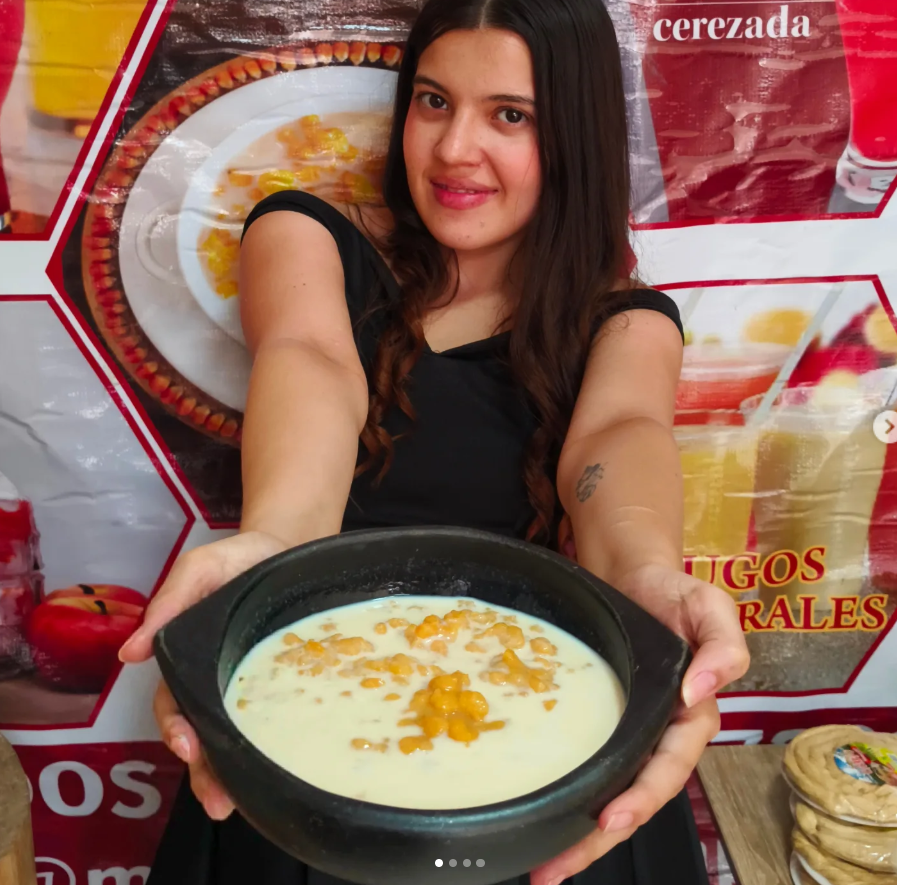
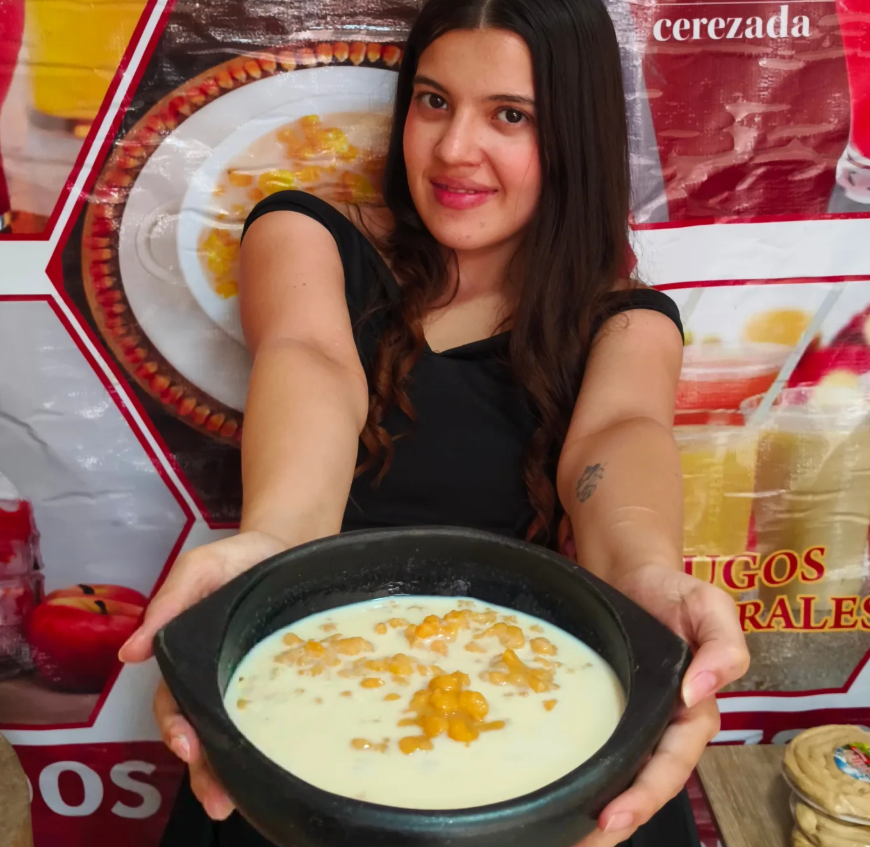
Add files via upload

diff --git a/index.html b/index.html
@@ -29,7 +29,7 @@
       "addressRegion": "Antioquia",
       "addressCountry": "CO"
     },
-    "telephone": "+57 314 607 7201",
+    "telephone": "+57 320 454 6172",
     "sameAs": ["https://www.instagram.com/mazmasculturapaisa/"]
   }
   </script>
@@ -55,7 +55,7 @@
           <li class="nav-item"><a class="nav-link" href="pages/blog.html">Blog paisa</a></li>
           <li class="nav-item"><a class="nav-link" href="pages/contacto.html">Contacto</a></li>
           <li class="nav-item ms-lg-3 mt-2 mt-lg-0">
-            <a class="btn btn-gold btn-sm rounded-pill px-3" href="https://wa.me/573146077201?text=Hola%20MazMas%2C%20quiero%20hacer%20un%20pedido." target="_blank" rel="noopener">
+            <a class="btn btn-gold btn-sm rounded-pill px-3" href="https://wa.me/573205466172?text=Hola%20MazMas%2C%20quiero%20hacer%20un%20pedido." target="_blank" rel="noopener">
               <i class="bi bi-whatsapp me-1" aria-hidden="true"></i> Pedir
             </a>
           </li>
@@ -76,7 +76,7 @@
             En MazMas conservamos el sabor de casa: mazamorra, claro, arroz con leche, salpicón, obleas, solteritas y dulces típicos que nos conectan con nuestras raíces antioqueñas.
           </p>
           <div class="d-flex flex-wrap gap-2 mb-4">
-            <a class="btn btn-mazmas btn-lg rounded-pill px-4" href="https://wa.me/573146077201?text=Hola%20MazMas%2C%20quiero%20hacer%20un%20pedido." target="_blank" rel="noopener">
+            <a class="btn btn-mazmas btn-lg rounded-pill px-4" href="https://wa.me/573205466172?text=Hola%20MazMas%2C%20quiero%20hacer%20un%20pedido." target="_blank" rel="noopener">
               <i class="bi bi-whatsapp me-2" aria-hidden="true"></i>Pedir por WhatsApp
             </a>
             <a class="btn btn-outline-mazmas btn-lg rounded-pill px-4" href="pages/servicios.html">Ver productos</a>
@@ -96,7 +96,7 @@
             </div>
             <div class="carousel-inner">
               <div class="carousel-item active" data-bs-interval="5200">
-                <img src="assets/img/Mazamorra 1.png" class="d-block w-100" alt="Mazamorra pilada MazMas servida con maíz y leche" loading="eager">
+                <img src="assets/img/Plato mazamorra.jpg" class="d-block w-100" alt="Mazamorra pilada MazMas servida con maíz y leche" loading="eager">
                 <div class="carousel-caption">
                   <h2 class="h5 fw-bold mb-1">La mazamorra de la abuela, cerquita de ti</h2>
                   <p class="mb-0 small">Una receta tradicional que sabe a familia.</p>
@@ -110,7 +110,7 @@
                 </div>
               </div>
               <div class="carousel-item" data-bs-interval="5200">
-                <img src="assets/img/Mazamorra 3.png" class="d-block w-100" alt="Refrigerios empresariales con productos tradicionales paisas" loading="lazy">
+                <img src="assets/img/Bandeja Salpicón.jpg" class="d-block w-100" alt="Refrigerios empresariales con productos tradicionales paisas" loading="lazy">
                 <div class="carousel-caption">
                   <h2 class="h5 fw-bold mb-1">Refrigerios con identidad paisa</h2>
                   <p class="mb-0 small">Para oficinas, colegios, eventos y reuniones.</p>
@@ -235,7 +235,7 @@
           <a class="btn btn-gold btn-lg rounded-pill" href="pages/contacto.html#form-contacto">Cotizar refrigerio</a>
         </div>
         <div class="col-lg-6">
-          <img src="assets/img/Oblea.png" alt="Refrigerios empresariales MazMas con mazamorra y dulces típicos" class="img-fluid rounded-5 shadow" loading="lazy">
+          <img src="assets/img/Refrigerio.jpg" alt="Refrigerios empresariales MazMas con mazamorra y dulces típicos" class="img-fluid rounded-5 shadow" loading="lazy">
         </div>
       </div>
     </div>
@@ -251,19 +251,19 @@
         <div class="carousel-inner">
           <div class="carousel-item active">
             <div class="card card-mazmas testimonial-card p-4 p-lg-5 mx-auto" style="max-width: 900px;">
-              <p class="testimonial-quote">“La mazamorra está muy buena, muy suavecita. Felicitaciones por ese emprendimiento.”</p>
+              <p class="testimonial-quote">“Tienen mucha variedad de cosas deliciosas. Los postres.. Las sodas. Las bebidas calientes. El te y tienen la mejor mazamorra del país con receta de la abuela ❤️”</p>
               <p class="mb-0 small text-secondary">Comentario recibido por cliente MazMas</p>
             </div>
           </div>
           <div class="carousel-item">
             <div class="card card-mazmas testimonial-card p-4 p-lg-5 mx-auto" style="max-width: 900px;">
-              <p class="testimonial-quote">“Excelente atención y un producto espectacular. Ya no me veo comprándolo en otro lugar.”</p>
+              <p class="testimonial-quote">“La mejor mazamorra de itagui; buena atención variedad en productos para acompañar la mazamorra; y atención inmediata”</p>
               <p class="mb-0 small text-secondary">Comentario recibido por cliente MazMas</p>
             </div>
           </div>
           <div class="carousel-item">
             <div class="card card-mazmas testimonial-card p-4 p-lg-5 mx-auto" style="max-width: 900px;">
-              <p class="testimonial-quote">“Las mazamorras fueron todo un éxito, a todos les gustó muchísimo.”</p>
+              <p class="testimonial-quote">“Excelentes productos y atención, la mazamorra es el producto estrella aunque el salpicon y el arroz con leche no se quedan atrás, el local es muy acogedor.”</p>
               <p class="mb-0 small text-secondary">Comentario recibido por cliente MazMas</p>
             </div>
           </div>
@@ -360,7 +360,7 @@
   </section>
 </main>
 
-<a href="https://wa.me/573146077201?text=Hola%20MazMas%2C%20quiero%20hacer%20un%20pedido." 
+<a href="https://wa.me/573205466172?text=Hola%20MazMas%2C%20quiero%20hacer%20un%20pedido." 
   class="btn btn-success rounded-circle shadow position-fixed end-0 bottom-0 m-4 whatsapp-float"
   target="_blank" rel="noopener" aria-label="Escribir a MazMas por WhatsApp">
   <i class="bi bi-whatsapp" aria-hidden="true"></i>
@@ -383,7 +383,7 @@
         <img src="assets/img/logo-mazmas-transparente.png" alt="MazMas Cultura Paisa" class="logo-mazmas mb-3" loading="lazy">
         <p class="mb-3 small text-white-50">Mazamorra pilada, claro, salpicón, arroz con leche, obleas, helados y dulces típicos antioqueños.</p>
         <div class="d-flex gap-2">
-          <a class="btn btn-gold btn-sm rounded-pill" href="https://wa.me/573146077201" target="_blank" rel="noopener">WhatsApp</a>
+          <a class="btn btn-gold btn-sm rounded-pill" href="https://wa.me/573205466172" target="_blank" rel="noopener">WhatsApp</a>
           <a class="btn btn-outline-light btn-sm rounded-pill" href="https://www.instagram.com/mazmasculturapaisa/" target="_blank" rel="noopener">Instagram</a>
         </div>
       </div>
@@ -409,7 +409,7 @@
         <h2 class="h6 fw-bold text-gold">Contacto</h2>
         <address class="footer-address small mb-0">Cra 50 #75A-24, Edificio La Fe
 Barrio El Carmelo, Itagüí
-WhatsApp: 314 607 7201
+WhatsApp: 320 546 6172
 Instagram: @mazmasculturapaisa</address>
       </div>
     </div>

diff --git a/assets/css/blog.css b/assets/css/blog.css
@@ -119,10 +119,23 @@
 
 /* CTA final */
 .call-strip{
-  background:
-    linear-gradient(135deg, rgba(122, 25, 20, .96), rgba(166, 13, 31, .96)),
-    var(--mazmas-red-dark);
+  background: var(--mazmas-red-dark);
   color: #fff;
+}
+
+.call-strip h2{
+  color: #ffffff;
+  text-shadow: 0 2px 8px rgba(0,0,0,.25);
+}
+
+.call-strip p{
+  color: #ffe8b0 !important;
+  font-weight: 600;
+}
+
+.call-strip .btn-gold{
+  color: var(--mazmas-red-dark);
+  font-weight: 900;
 }
 
 /* Responsive */

diff --git a/pages/servicios.html b/pages/servicios.html
@@ -36,7 +36,7 @@
           <li class="nav-item"><a class="nav-link " href="blog.html">Blog paisa</a></li>
           <li class="nav-item"><a class="nav-link " href="contacto.html">Contacto</a></li>
           <li class="nav-item ms-lg-3 mt-2 mt-lg-0">
-            <a class="btn btn-gold btn-sm rounded-pill px-3" href="https://wa.me/573146077201?text=Hola%20MazMas%2C%20quiero%20hacer%20un%20pedido." target="_blank" rel="noopener">
+            <a class="btn btn-gold btn-sm rounded-pill px-3" href="https://wa.me/573205466172?text=Hola%20MazMas%2C%20quiero%20hacer%20un%20pedido." target="_blank" rel="noopener">
               <i class="bi bi-whatsapp me-1" aria-hidden="true"></i> Pedir
             </a>
           </li>
@@ -60,7 +60,7 @@
           </div>
         </div>
         <div class="col-lg-5">
-          <img src="../assets/img/Oblea.png" alt="Refrigerios empresariales MazMas" class="img-fluid rounded-5 shadow" loading="eager">
+          <img src="../assets/img/Abuela.png" alt="Refrigerios empresariales MazMas" class="img-fluid rounded-5 shadow" loading="eager">
         </div>
       </div>
     </div>
@@ -75,7 +75,7 @@
       <div class="row g-4">
         <div class="col-md-6 col-lg-4" id="mazamorra">
           <article class="service-card h-100">
-            <img src="../assets/img/Mazamorra 1.png" alt="Mazamorra pilada tradicional" loading="lazy">
+            <img src="../assets/img/Plato de mazamorra 1.jpg" alt="Mazamorra pilada tradicional" loading="lazy">
             <div class="p-4">
               <span class="service-chip mb-3"><i class="bi bi-star-fill"></i> Producto estrella</span>
               <h3 class="h4 fw-bold">Mazamorra pilada</h3>
@@ -119,7 +119,7 @@
         </div>
         <div class="col-md-6 col-lg-4" id="dulces">
           <article class="service-card h-100">
-            <img src="../assets/img/Oblea.png" alt="Obleas, solteritas y dulces típicos" loading="lazy">
+            <img src="../assets/img/Solteritas.jpg" alt="Obleas, solteritas y dulces típicos" loading="lazy">
             <div class="p-4">
               <span class="service-chip mb-3"><i class="bi bi-gift-fill"></i> Antojos</span>
               <h3 class="h4 fw-bold">Obleas y solteritas</h3>
@@ -130,7 +130,7 @@
         </div>
         <div class="col-md-6 col-lg-4">
           <article class="service-card h-100">
-            <img src="../assets/img/Dulces.png" alt="Dulces típicos antioqueños" loading="lazy">
+            <img src="../assets/img/Dulces 1.jpg" alt="Dulces típicos antioqueños" loading="lazy">
             <div class="p-4">
               <span class="service-chip mb-3"><i class="bi bi-bag-heart-fill"></i> Tradición</span>
               <h3 class="h4 fw-bold">Dulces típicos</h3>
@@ -258,7 +258,7 @@
   </section>
 </main>
 
-<a href="https://wa.me/573146077201?text=Hola%20MazMas%2C%20quiero%20hacer%20un%20pedido." 
+<a href="https://wa.me/573205466172?text=Hola%20MazMas%2C%20quiero%20hacer%20un%20pedido." 
   class="btn btn-success rounded-circle shadow position-fixed end-0 bottom-0 m-4 whatsapp-float"
   target="_blank" rel="noopener" aria-label="Escribir a MazMas por WhatsApp">
   <i class="bi bi-whatsapp" aria-hidden="true"></i>
@@ -281,7 +281,7 @@
         <img src="../assets/img/logo-mazmas-transparente.png" alt="MazMas Cultura Paisa" class="logo-mazmas mb-3" loading="lazy">
         <p class="mb-3 small text-white-50">Mazamorra pilada, claro, salpicón, arroz con leche, obleas, helados y dulces típicos antioqueños.</p>
         <div class="d-flex gap-2">
-          <a class="btn btn-gold btn-sm rounded-pill" href="https://wa.me/573146077201" target="_blank" rel="noopener">WhatsApp</a>
+          <a class="btn btn-gold btn-sm rounded-pill" href="https://wa.me/573205466172" target="_blank" rel="noopener">WhatsApp</a>
           <a class="btn btn-outline-light btn-sm rounded-pill" href="https://www.instagram.com/mazmasculturapaisa/" target="_blank" rel="noopener">Instagram</a>
         </div>
       </div>
@@ -307,7 +307,7 @@
         <h2 class="h6 fw-bold text-gold">Contacto</h2>
         <address class="footer-address small mb-0">Cra 50 #75A-24, Edificio La Fe
 Barrio El Carmelo, Itagüí
-WhatsApp: 314 607 7201
+WhatsApp: 320 546 6172
 Instagram: @mazmasculturapaisa</address>
       </div>
     </div>

diff --git a/pages/blog.html b/pages/blog.html
@@ -43,7 +43,7 @@
           <li class="nav-item"><a class="nav-link" href="contacto.html">Contacto</a></li>
           <li class="nav-item ms-lg-3 mt-2 mt-lg-0">
             <a class="btn btn-gold btn-sm rounded-pill px-3"
-               href="https://wa.me/573146077201?text=Hola%20MazMas%2C%20quiero%20hacer%20un%20pedido."
+               href="https://wa.me/573205466172?text=Hola%20MazMas%2C%20quiero%20hacer%20un%20pedido."
                target="_blank" rel="noopener">
               <i class="bi bi-whatsapp me-1" aria-hidden="true"></i> Pedir
             </a>
@@ -174,7 +174,7 @@
         <!-- HISTORIA 3 -->
         <div class="col-md-6 col-xl-4" data-category="historias">
           <article class="post-card">
-            <img src="../assets/img/Mazamorra 3.png" alt="Mazamorra y tradición familiar paisa" loading="lazy">
+            <img src="../assets/img/Mazamorra 4.jpg" alt="Mazamorra y tradición familiar paisa" loading="lazy">
 
             <div class="post-card-body">
               <p class="post-category">Historias paisas</p>
@@ -212,7 +212,7 @@
         <!-- HISTORIA 4 -->
         <div class="col-md-6 col-xl-4" data-category="mazmas">
           <article class="post-card">
-            <img src="../assets/img/Oblea.png" alt="Refrigerios empresariales con tradición paisa" loading="lazy">
+            <img src="../assets/img/Refrigerio.jpg" alt="Refrigerios empresariales con tradición paisa" loading="lazy">
 
             <div class="post-card-body">
               <p class="post-category">Notas MazMas</p>
@@ -250,7 +250,7 @@
         <!-- HISTORIA 5 -->
         <div class="col-md-6 col-xl-4" data-category="sabores">
           <article class="post-card">
-            <img src="../assets/img/Dulces 2.png" alt="Pionono y dulces tradicionales" loading="lazy">
+            <img src="../assets/img/Dulces 3.jpg" alt="Pionono y dulces tradicionales" loading="lazy">
 
             <div class="post-card-body">
               <p class="post-category">Sabores de Antioquia</p>
@@ -344,7 +344,7 @@
 
 </main>
 
-<a href="https://wa.me/573146077201?text=Hola%20MazMas%2C%20quiero%20hacer%20un%20pedido."
+<a href="https://wa.me/573205466172?text=Hola%20MazMas%2C%20quiero%20hacer%20un%20pedido."
    class="btn btn-success rounded-circle shadow position-fixed end-0 bottom-0 m-4 whatsapp-float"
    target="_blank" rel="noopener" aria-label="Escribir a MazMas por WhatsApp">
   <i class="bi bi-whatsapp" aria-hidden="true"></i>
@@ -369,7 +369,7 @@
           Mazamorra pilada, claro, salpicón, arroz con leche, obleas, helados y dulces típicos antioqueños.
         </p>
         <div class="d-flex gap-2">
-          <a class="btn btn-gold btn-sm rounded-pill" href="https://wa.me/573146077201" target="_blank" rel="noopener">WhatsApp</a>
+          <a class="btn btn-gold btn-sm rounded-pill" href="https://wa.me/573205466172" target="_blank" rel="noopener">WhatsApp</a>
           <a class="btn btn-outline-light btn-sm rounded-pill" href="https://www.instagram.com/mazmasculturapaisa/" target="_blank" rel="noopener">Instagram</a>
         </div>
       </div>
@@ -398,7 +398,7 @@
         <h2 class="h6 fw-bold text-gold">Contacto</h2>
         <address class="footer-address small mb-0">Cra 50 #75A-24, Edificio La Fe
 Barrio El Carmelo, Itagüí
-WhatsApp: 314 607 7201
+WhatsApp: 320 546 6172
 Instagram: @mazmasculturapaisa</address>
       </div>
     </div>

diff --git a/pages/contacto.html b/pages/contacto.html
@@ -36,7 +36,7 @@
           <li class="nav-item"><a class="nav-link " href="blog.html">Blog paisa</a></li>
           <li class="nav-item"><a class="nav-link active" aria-current="page" href="contacto.html">Contacto</a></li>
           <li class="nav-item ms-lg-3 mt-2 mt-lg-0">
-            <a class="btn btn-gold btn-sm rounded-pill px-3" href="https://wa.me/573146077201?text=Hola%20MazMas%2C%20quiero%20hacer%20un%20pedido." target="_blank" rel="noopener">
+            <a class="btn btn-gold btn-sm rounded-pill px-3" href="https://wa.me/573205466172?text=Hola%20MazMas%2C%20quiero%20hacer%20un%20pedido." target="_blank" rel="noopener">
               <i class="bi bi-whatsapp me-1" aria-hidden="true"></i> Pedir
             </a>
           </li>
@@ -55,7 +55,7 @@
           <h1 class="display-5 fw-bold section-title">Pide, cotiza o ven por el sabor de lo nuestro</h1>
           <p class="lead lead-soft mb-4">Escríbenos por WhatsApp para domicilios, productos disponibles, litros familiares o refrigerios empresariales.</p>
           <div class="d-flex flex-wrap gap-2">
-            <a class="btn btn-mazmas btn-lg rounded-pill" href="https://wa.me/573146077201?text=Hola%20MazMas%2C%20quiero%20hacer%20un%20pedido." target="_blank" rel="noopener">
+            <a class="btn btn-mazmas btn-lg rounded-pill" href="https://wa.me/573205466172?text=Hola%20MazMas%2C%20quiero%20hacer%20un%20pedido." target="_blank" rel="noopener">
               <i class="bi bi-whatsapp me-2"></i>WhatsApp
             </a>
             <a class="btn btn-outline-mazmas btn-lg rounded-pill" href="#ubicacion">Ver ubicación</a>
@@ -133,7 +133,7 @@
                 </div>
               </div>
               <div class="col-12 d-flex justify-content-end gap-2">
-                <a class="btn btn-outline-mazmas rounded-pill" href="tel:+573146077201">Llamar</a>
+                <a class="btn btn-outline-mazmas rounded-pill" href="tel:+573205466172">Llamar</a>
                 <button type="submit" class="btn btn-mazmas rounded-pill">Enviar por WhatsApp</button>
               </div>
             </form>
@@ -146,7 +146,7 @@
             <div class="col-md-6">
               <div class="quick-contact h-100">
                 <i class="bi bi-whatsapp"></i>
-                <div><h3 class="h6 fw-bold mb-1">WhatsApp</h3><a href="https://wa.me/573146077201" target="_blank" rel="noopener">314 607 7201</a></div>
+                <div><h3 class="h6 fw-bold mb-1">WhatsApp</h3><a href="https://wa.me/573205466172" target="_blank" rel="noopener">320 546 6172</a></div>
               </div>
             </div>
             <div class="col-md-6">
@@ -191,7 +191,7 @@
   </div>
 </div>
 
-<a href="https://wa.me/573146077201?text=Hola%20MazMas%2C%20quiero%20hacer%20un%20pedido." 
+<a href="https://wa.me/573205466172?text=Hola%20MazMas%2C%20quiero%20hacer%20un%20pedido." 
   class="btn btn-success rounded-circle shadow position-fixed end-0 bottom-0 m-4 whatsapp-float"
   target="_blank" rel="noopener" aria-label="Escribir a MazMas por WhatsApp">
   <i class="bi bi-whatsapp" aria-hidden="true"></i>
@@ -214,7 +214,7 @@
         <img src="../assets/img/logo-mazmas-transparente.png" alt="MazMas Cultura Paisa" class="logo-mazmas mb-3" loading="lazy">
         <p class="mb-3 small text-white-50">Mazamorra pilada, claro, salpicón, arroz con leche, obleas, helados y dulces típicos antioqueños.</p>
         <div class="d-flex gap-2">
-          <a class="btn btn-gold btn-sm rounded-pill" href="https://wa.me/573146077201" target="_blank" rel="noopener">WhatsApp</a>
+          <a class="btn btn-gold btn-sm rounded-pill" href="https://wa.me/573205466172" target="_blank" rel="noopener">WhatsApp</a>
           <a class="btn btn-outline-light btn-sm rounded-pill" href="https://www.instagram.com/mazmasculturapaisa/" target="_blank" rel="noopener">Instagram</a>
         </div>
       </div>
@@ -240,7 +240,7 @@
         <h2 class="h6 fw-bold text-gold">Contacto</h2>
         <address class="footer-address small mb-0">Cra 50 #75A-24, Edificio La Fe
 Barrio El Carmelo, Itagüí
-WhatsApp: 314 607 7201
+WhatsApp: 320 546 6172
 Instagram: @mazmasculturapaisa</address>
       </div>
     </div>

diff --git a/assets/js/contacto.js b/assets/js/contacto.js
@@ -1,7 +1,7 @@
 (() => {
   const form = document.getElementById("form-contacto");
   const alertOk = document.getElementById("alert-ok");
-  const phone = "573146077201";
+  const phone = "573205466172";
 
   function buildWhatsAppMessage(){
     const nombre = document.getElementById("nombre").value.trim();

diff --git a/assets/js/servicios.js b/assets/js/servicios.js
@@ -1,5 +1,5 @@
 (() => {
-  const phone = "573146077201";
+  const phone = "573205466172";
   const buttons = document.querySelectorAll("[data-producto]");
 
   buttons.forEach((btn) => {